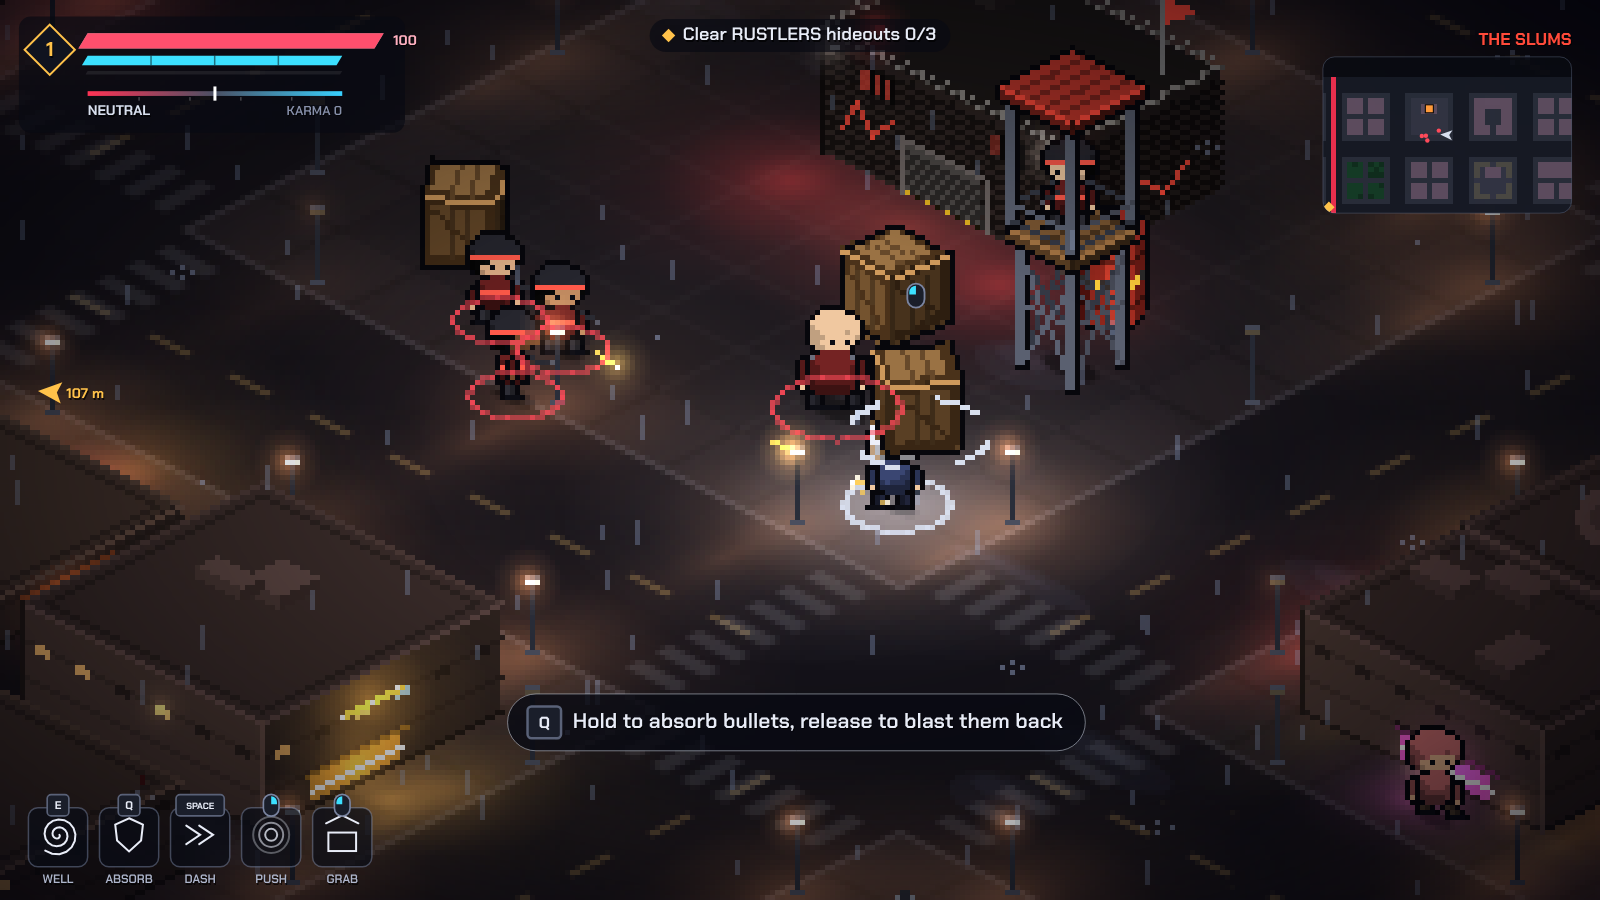
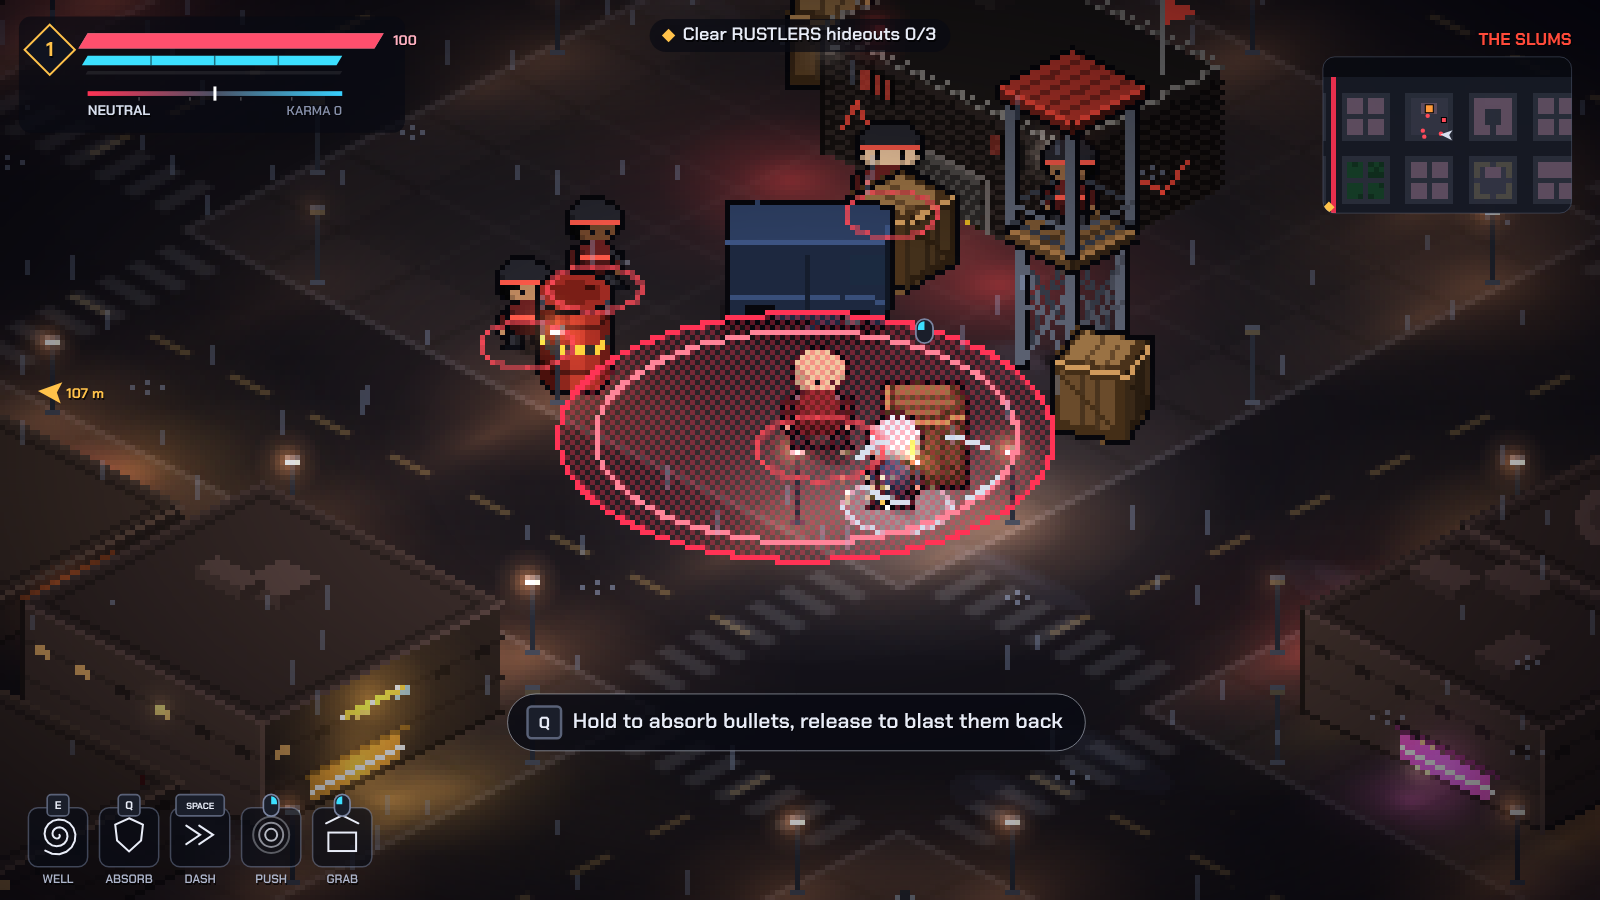
Show watchtowers on the maps and keep destroyed ones down in the save
Claude-Session: https://claude.ai/code/session_01TQrqJid8SEs5fJFtrpg3VS

diff --git a/dist/kinetic_city.html b/dist/kinetic_city.html
@@ -1231,6 +1231,7 @@ function kill(e, info) {
   } else if (k === 'tower') {   // collapses into splinters; a couple of loose crates tumble out
     FX.debris(e.x, e.y, 14, '#6a4a2a', 240); FX.debris(e.x, e.y, 8, '#5a6070', 200); FX.dust(e.x, e.y, 10); FX.smoke(e.x, e.y, 6, '#2a2c34', 1.2);
     sfx('heavy', e.x, e.y); shake(.4); reward(e, byP);
+    if (e.hid !== undefined) { const s = DS[e.did]; s.towers = s.towers || []; if (!s.towers.includes(e.hid)) s.towers.push(e.hid); }   // stays down in the save
     for (let i = 0; i < 2; i++) { const a = rnd(TAU), c = mk('crate', e.x + Math.cos(a) * 8, e.y + Math.sin(a) * 8); c.vx = Math.cos(a) * 160; c.vy = Math.sin(a) * 160; c.vz = 120; }
     { const a = rnd(TAU), g = spawnGang('grunt', e.x + Math.cos(a) * 6, e.y + Math.sin(a) * 6, { home: e.home, terr: e.terr, z: 42, vz: 60, stun: 1.3, flung: true, lastHitBy: byP ? 'player' : null }); g.vx = Math.cos(a) * 90; g.vy = Math.sin(a) * 90; g.hp = g.maxhp * .5; }   // the lookout comes down with it, hurt
     if (byP) toast('Watchtower down', '#ffc24a');
@@ -2130,7 +2131,7 @@ function populate(save) {
     const d = h.d, hid = d * 3 + hidIdx[d]++;
     if (destroyed[d].includes(hid) || (save && (save.ds[d].bossDone || save.ds[d].hideoutsLeft === 0))) { mk('hideout', h.x, h.y - 48, { did: d, hid, r: 34, spot: h, rect: hideoutRect(h), gateOpen: true, gateT: 1, cleared: true, col: DIST[d].col }); continue; }
     mk('hideout', h.x, h.y - 48, { did: d, hid, r: 34, spot: h, rect: hideoutRect(h), gateOpen: false, col: DIST[d].col });
-    mk('tower', h.x + (hid % 2 ? 88 : -88), h.y + 20, { did: d, ang: 0, col: DIST[d].col, home: { x: h.x, y: h.y + 50 }, terr: 290 });
+    if (!(save && (save.ds[d].towers || []).includes(hid))) mk('tower', h.x + (hid % 2 ? 88 : -88), h.y + 20, { did: d, hid, ang: 0, col: DIST[d].col, home: { x: h.x, y: h.y + 50 }, terr: 290 });
     for (let i = 0; i < 3 + d; i++) { const p = findFree(h.x, h.y + 60, 70, 12); if (p) spawnGang(i === 0 && d > 0 ? 'brute' : 'grunt', p.x, p.y, { home: { x: h.x, y: h.y + 50 }, terr: 290, guardOf: hid }); }
     for (let i = 0; i < 3; i++) { const p = findFree(h.x, h.y + 40, 110, 14); if (p) mk(i === 2 ? 'barrel' : 'crate', p.x, p.y); }
   }
@@ -2340,7 +2341,7 @@ function saveGame() {
   if (!G.started) return;
   const data = {
     v: 2, karma: G.karma, xp: G.xp, level: G.level, points: G.points, ups: { ...ups }, shards: G.shards, shardIds: G.shardIds, kills: G.kills, civKills: G.civKills, saves: G.saves,
-    ds: DS.map(s => ({ hideoutsLeft: s.hideoutsLeft, destroyed: s.destroyed || [], bossDone: s.bossDone, status: s.status, intro: s.intro })), gates: gatesOpen.slice(), check: G.check, finished: G.finished, seen: G.seen
+    ds: DS.map(s => ({ hideoutsLeft: s.hideoutsLeft, destroyed: s.destroyed || [], towers: s.towers || [], bossDone: s.bossDone, status: s.status, intro: s.intro })), gates: gatesOpen.slice(), check: G.check, finished: G.finished, seen: G.seen
   };
   try { localStorage.setItem(SAVE_KEY, JSON.stringify(data)); } catch (e) { }
 }
@@ -2350,7 +2351,7 @@ function loadSave() { try { const s = JSON.parse(localStorage.getItem(SAVE_KEY) 
 function resetState() {
   ents.length = bullets.length = parts.length = texts.length = pickups.length = wells.length = decals.length = timers.length = rings.length = zones.length = warns.length = dlights.length = 0;
   Object.assign(G, { time: 0, karma: 0, xp: 0, level: 1, points: 0, heat: 0, heatT: 0, shards: 0, shardIds: [], kills: 0, civKills: 0, saves: 0, combo: 0, comboT: 0, comboBest: 0, hitstop: 0, slowT: 0, flash: 0, civHitT: 0, encT: 30, copT: 3, allyT: 8, tribT: 10, toasts: [], boss: null, marker: null, check: { ...START }, deadT: 0, curD: 0, finished: false, hint: null, seen: {}, started: false });
-  DS.forEach((s, i) => Object.assign(s, { hideoutsLeft: 3, bossAlive: false, bossDone: false, status: 'enemy', intro: i === 0, destroyed: [] }));
+  DS.forEach((s, i) => Object.assign(s, { hideoutsLeft: 3, bossAlive: false, bossDone: false, status: 'enemy', intro: i === 0, destroyed: [], towers: [] }));
   gatesOpen[0] = gatesOpen[1] = false;
   for (const k in ups) delete ups[k];
   tkTarget = null; traj = null;
@@ -4523,6 +4524,7 @@ function drawMinimap(x, y, w, h) {
     if (e.dead) continue;
     if (e.kind === 'hideout' && !e.cleared) { const [px, py] = M(e.x, e.y); ctx.fillStyle = '#ff9a3a'; ctx.fillRect(px - 4, py - 4, 8, 8); ctx.strokeStyle = '#000'; ctx.lineWidth = 1; ctx.strokeRect(px - 4, py - 4, 8, 8); }
     else if (e.kind === 'boss') { const [px, py] = M(e.x, e.y); ctx.fillStyle = '#ff3355'; circle(px, py, 6 + Math.sin(G.time * 6)); }
+    else if (e.kind === 'tower') { const [px, py] = M(e.x, e.y); ctx.fillStyle = '#ff4a5a'; ctx.fillRect(px - 2.5, py - 2.5, 5, 5); ctx.strokeStyle = '#000'; ctx.lineWidth = 1; ctx.strokeRect(px - 2.5, py - 2.5, 5, 5); }
     else if (dist2(e, P) < 700 * 700) {
       if (e.team === 'gang' && !e.static) { const [px, py] = M(e.x, e.y); ctx.fillStyle = '#ff4a5a'; circle(px, py, 2.2); }
       else if (e.kind === 'cop') { const [px, py] = M(e.x, e.y); ctx.fillStyle = e.ally ? '#38d0ff' : '#6a8aff'; circle(px, py, 2.2); }
@@ -4562,6 +4564,7 @@ function drawCityMap() {
   for (const e of ents) {
     if (e.dead) continue;
     if (e.kind === 'hideout' && !e.cleared) { ctx.fillStyle = '#ff9a3a'; ctx.fillRect(x + e.x * sc - 5, y + e.y * sc - 5, 10, 10); }
+    if (e.kind === 'tower') { ctx.fillStyle = '#ff4a5a'; ctx.fillRect(x + e.x * sc - 3, y + e.y * sc - 3, 6, 6); }
     if (e.kind === 'boss') { ctx.fillStyle = '#ff3355'; circle(x + e.x * sc, y + e.y * sc, 7); }
   }
   for (let d = 0; d < 3; d++) if (!DS[d].bossDone && (d === 0 || gatesOpen[d - 1])) { const b = spots.boss[d]; ctx.strokeStyle = '#ff3355'; ctx.lineWidth = 2; ctx.beginPath(); ctx.arc(x + b.x * sc, y + b.y * sc, 9, 0, TAU); ctx.stroke(); }

diff --git a/src/js/10_game.js b/src/js/10_game.js
@@ -9,7 +9,7 @@ function populate(save) {
     const d = h.d, hid = d * 3 + hidIdx[d]++;
     if (destroyed[d].includes(hid) || (save && (save.ds[d].bossDone || save.ds[d].hideoutsLeft === 0))) { mk('hideout', h.x, h.y - 48, { did: d, hid, r: 34, spot: h, rect: hideoutRect(h), gateOpen: true, gateT: 1, cleared: true, col: DIST[d].col }); continue; }
     mk('hideout', h.x, h.y - 48, { did: d, hid, r: 34, spot: h, rect: hideoutRect(h), gateOpen: false, col: DIST[d].col });
-    mk('tower', h.x + (hid % 2 ? 88 : -88), h.y + 20, { did: d, ang: 0, col: DIST[d].col, home: { x: h.x, y: h.y + 50 }, terr: 290 });
+    if (!(save && (save.ds[d].towers || []).includes(hid))) mk('tower', h.x + (hid % 2 ? 88 : -88), h.y + 20, { did: d, hid, ang: 0, col: DIST[d].col, home: { x: h.x, y: h.y + 50 }, terr: 290 });
     for (let i = 0; i < 3 + d; i++) { const p = findFree(h.x, h.y + 60, 70, 12); if (p) spawnGang(i === 0 && d > 0 ? 'brute' : 'grunt', p.x, p.y, { home: { x: h.x, y: h.y + 50 }, terr: 290, guardOf: hid }); }
     for (let i = 0; i < 3; i++) { const p = findFree(h.x, h.y + 40, 110, 14); if (p) mk(i === 2 ? 'barrel' : 'crate', p.x, p.y); }
   }
@@ -219,7 +219,7 @@ function saveGame() {
   if (!G.started) return;
   const data = {
     v: 2, karma: G.karma, xp: G.xp, level: G.level, points: G.points, ups: { ...ups }, shards: G.shards, shardIds: G.shardIds, kills: G.kills, civKills: G.civKills, saves: G.saves,
-    ds: DS.map(s => ({ hideoutsLeft: s.hideoutsLeft, destroyed: s.destroyed || [], bossDone: s.bossDone, status: s.status, intro: s.intro })), gates: gatesOpen.slice(), check: G.check, finished: G.finished, seen: G.seen
+    ds: DS.map(s => ({ hideoutsLeft: s.hideoutsLeft, destroyed: s.destroyed || [], towers: s.towers || [], bossDone: s.bossDone, status: s.status, intro: s.intro })), gates: gatesOpen.slice(), check: G.check, finished: G.finished, seen: G.seen
   };
   try { localStorage.setItem(SAVE_KEY, JSON.stringify(data)); } catch (e) { }
 }
@@ -229,7 +229,7 @@ function loadSave() { try { const s = JSON.parse(localStorage.getItem(SAVE_KEY) 
 function resetState() {
   ents.length = bullets.length = parts.length = texts.length = pickups.length = wells.length = decals.length = timers.length = rings.length = zones.length = warns.length = dlights.length = 0;
   Object.assign(G, { time: 0, karma: 0, xp: 0, level: 1, points: 0, heat: 0, heatT: 0, shards: 0, shardIds: [], kills: 0, civKills: 0, saves: 0, combo: 0, comboT: 0, comboBest: 0, hitstop: 0, slowT: 0, flash: 0, civHitT: 0, encT: 30, copT: 3, allyT: 8, tribT: 10, toasts: [], boss: null, marker: null, check: { ...START }, deadT: 0, curD: 0, finished: false, hint: null, seen: {}, started: false });
-  DS.forEach((s, i) => Object.assign(s, { hideoutsLeft: 3, bossAlive: false, bossDone: false, status: 'enemy', intro: i === 0, destroyed: [] }));
+  DS.forEach((s, i) => Object.assign(s, { hideoutsLeft: 3, bossAlive: false, bossDone: false, status: 'enemy', intro: i === 0, destroyed: [], towers: [] }));
   gatesOpen[0] = gatesOpen[1] = false;
   for (const k in ups) delete ups[k];
   tkTarget = null; traj = null;

diff --git a/src/js/12_hud.js b/src/js/12_hud.js
@@ -229,6 +229,7 @@ function drawMinimap(x, y, w, h) {
     if (e.dead) continue;
     if (e.kind === 'hideout' && !e.cleared) { const [px, py] = M(e.x, e.y); ctx.fillStyle = '#ff9a3a'; ctx.fillRect(px - 4, py - 4, 8, 8); ctx.strokeStyle = '#000'; ctx.lineWidth = 1; ctx.strokeRect(px - 4, py - 4, 8, 8); }
     else if (e.kind === 'boss') { const [px, py] = M(e.x, e.y); ctx.fillStyle = '#ff3355'; circle(px, py, 6 + Math.sin(G.time * 6)); }
+    else if (e.kind === 'tower') { const [px, py] = M(e.x, e.y); ctx.fillStyle = '#ff4a5a'; ctx.fillRect(px - 2.5, py - 2.5, 5, 5); ctx.strokeStyle = '#000'; ctx.lineWidth = 1; ctx.strokeRect(px - 2.5, py - 2.5, 5, 5); }
     else if (dist2(e, P) < 700 * 700) {
       if (e.team === 'gang' && !e.static) { const [px, py] = M(e.x, e.y); ctx.fillStyle = '#ff4a5a'; circle(px, py, 2.2); }
       else if (e.kind === 'cop') { const [px, py] = M(e.x, e.y); ctx.fillStyle = e.ally ? '#38d0ff' : '#6a8aff'; circle(px, py, 2.2); }
@@ -268,6 +269,7 @@ function drawCityMap() {
   for (const e of ents) {
     if (e.dead) continue;
     if (e.kind === 'hideout' && !e.cleared) { ctx.fillStyle = '#ff9a3a'; ctx.fillRect(x + e.x * sc - 5, y + e.y * sc - 5, 10, 10); }
+    if (e.kind === 'tower') { ctx.fillStyle = '#ff4a5a'; ctx.fillRect(x + e.x * sc - 3, y + e.y * sc - 3, 6, 6); }
     if (e.kind === 'boss') { ctx.fillStyle = '#ff3355'; circle(x + e.x * sc, y + e.y * sc, 7); }
   }
   for (let d = 0; d < 3; d++) if (!DS[d].bossDone && (d === 0 || gatesOpen[d - 1])) { const b = spots.boss[d]; ctx.strokeStyle = '#ff3355'; ctx.lineWidth = 2; ctx.beginPath(); ctx.arc(x + b.x * sc, y + b.y * sc, 9, 0, TAU); ctx.stroke(); }

diff --git a/src/js/07_combat.js b/src/js/07_combat.js
@@ -159,6 +159,7 @@ function kill(e, info) {
   } else if (k === 'tower') {   // collapses into splinters; a couple of loose crates tumble out
     FX.debris(e.x, e.y, 14, '#6a4a2a', 240); FX.debris(e.x, e.y, 8, '#5a6070', 200); FX.dust(e.x, e.y, 10); FX.smoke(e.x, e.y, 6, '#2a2c34', 1.2);
     sfx('heavy', e.x, e.y); shake(.4); reward(e, byP);
+    if (e.hid !== undefined) { const s = DS[e.did]; s.towers = s.towers || []; if (!s.towers.includes(e.hid)) s.towers.push(e.hid); }   // stays down in the save
     for (let i = 0; i < 2; i++) { const a = rnd(TAU), c = mk('crate', e.x + Math.cos(a) * 8, e.y + Math.sin(a) * 8); c.vx = Math.cos(a) * 160; c.vy = Math.sin(a) * 160; c.vz = 120; }
     { const a = rnd(TAU), g = spawnGang('grunt', e.x + Math.cos(a) * 6, e.y + Math.sin(a) * 6, { home: e.home, terr: e.terr, z: 42, vz: 60, stun: 1.3, flung: true, lastHitBy: byP ? 'player' : null }); g.vx = Math.cos(a) * 90; g.vy = Math.sin(a) * 90; g.hp = g.maxhp * .5; }   // the lookout comes down with it, hurt
     if (byP) toast('Watchtower down', '#ffc24a');

diff --git a/test/tower.js b/test/tower.js
@@ -29,5 +29,9 @@ const ROOT = path.resolve(__dirname, '..');
   console.log('cars needed:', cars);
   console.log('lookout on the ground:', await p.evaluate(() => KC.ents.filter(e => e.kind === 'grunt' && !e.dead && Math.hypot(e.x - TW.x, e.y - TW.y) < 120).length));
   console.log('dead:', await p.evaluate(() => TW.dead), ' hideout still standing:', await p.evaluate(() => KC.ents.some(e => e.kind === 'hideout' && !e.dead && !e.cleared)));
+  // minimap marker for a standing tower, and the destroyed one stays down after save + load
+  await p.evaluate(() => { const t = KC.ents.find(e => e.kind === 'tower' && !e.dead); KC.tp(t.x + 20, t.y + 90); });
+  await p.waitForTimeout(600); await p.screenshot({ path: ROOT + '/screenshots/tower_minimap.png', clip: { x: 1280, y: 20, width: 320, height: 220 } });
+  console.log('towers after save + load:', await p.evaluate(() => { saveGame(); newGame(loadSave()); return KC.ents.filter(e => e.kind === 'tower').length; }));
   console.log(errs.slice(0, 5).join('\n') || 'no errors'); await b.close();
 })();
